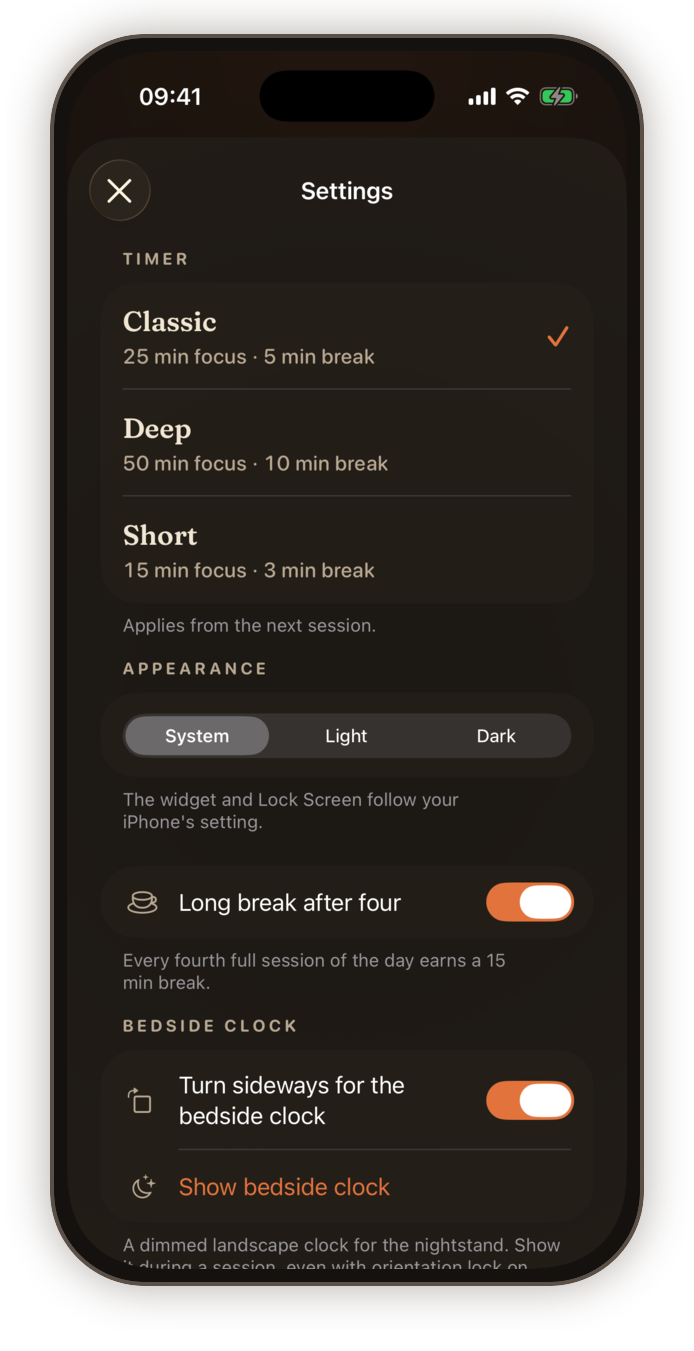
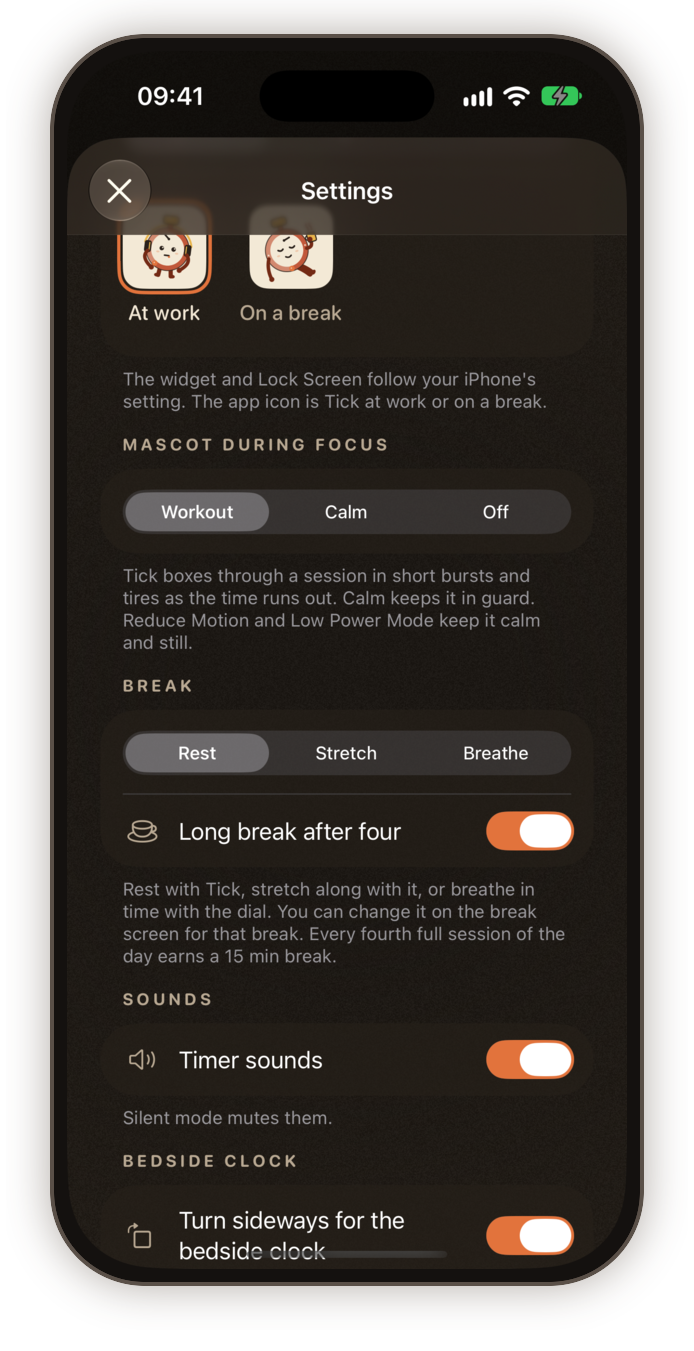
Docs and screenshots (closes #34)

diff --git a/docs/tick.md b/docs/tick.md
@@ -43,6 +43,16 @@ A focus session is a workout (Settings › Mascot during focus: Workout, Calm or
 - **Around the session:** gloves pop on and tap together at the start; a pause drops to guard in 0.3 s and waits with gloves on (still panting and sweating once tired); resume goes straight back; a cancel gets a shrug for 3 s; Finish now and the bell end on the champion, gloves raised; the gloves come off for the break.
 - **Calm and still:** Calm stays in guard with the tiring face and no punches. Reduce Motion and Low Power Mode show calm stills that cross-fade at each face change. The bedside clock is always calm, and so is working on past the bell.
 
+## The break
+
+A break is rest, a stretch or breathing (Settings › Break › During breaks, or the chips on the break screen for one break). Everything lives in `Shared/Mascot/Break` and, like the workout, is worked out from the break's own clock: `TickBreak` holds its length, end and the style with when it began, in the break's time, so a pause doesn't count and a relaunch lands on the same moment.
+
+- **Stretch:** `StretchMove` is a set of slow `KeyframeTimeline`s on the standing Tick (neck roll, shoulder shrug, reach up, side stretch, wrist circles, eye rest), each about 20 seconds with holds, starting and ending on the stance; hands going up high swing their elbows out round the ring. `StretchRoutine` fits them to what's left of the break: as many as fit in 60% of it, chosen eyes first, done in an order that flows, 2 s apart. `BreakLoops` eases Tick up off the ground as the mug goes, plays the routine, then eases it back down to the mug. Each stretch has a still pose for Reduce Motion and Low Power Mode.
+- **Breathe:** `BreathCycle` is 4 s in, 6 s out from when Breathe began. The halo and Tick's breath are one number that the render server animates from turn to turn (`BreathFollower`), so the app itself wakes only at the turns, for the words on the dial and a soft tap. Still, they hold at half.
+- **The dial's words:** `BreakGuide` gives the label ("Breathe in", "Neck roll"), the dots and the VoiceOver value, and the moments they change, so the dial redraws only then.
+- **Break's over:** after a break runs out, `TickDirector` keeps Tick ready (even at night) for the ten minutes "Break's over" shows, and its entrance is a quick reach up and a yawn (`StretchMove.backToWork`), seen only if the change happened on screen.
+- **Live Activity, island, widget, bedside:** unchanged. They can't follow breaths or stretches without push updates (the same limit as the workout), and the bedside clock always rests.
+
 ## Where Tick can move
 
 | Surface | Tick | Not possible |
@@ -83,6 +93,18 @@ The running screen's cost is its countdown; Tick adds nothing measurable there. 
 
 So the workout adds 2–5 points in the simulator.
 
+**Breaks (same simulator, a 5-minute break, 30 s averages after settling):**
+
+| During breaks | App CPU |
+|---|---|
+| Rest (the mug's steam, 15 frames a second throughout) | about 29% |
+| Stretch (frames only while a stretch moves; holds, gaps and eye rest draw nothing) | about 28% |
+| Breathe (the app wakes at each turn; the render server moves the halo and Tick) | about 25% |
+
+So stretching and breathing cost no more than resting.
+
+**Sounds and paper:** the timer's sounds are system sounds (`SystemTimerSounds`): loaded once, no audio session, nothing running between them. The paper grain is a Metal `colorEffect` (`Clockin/Design/PaperGrain.metal`) with no time input, so it's drawn with the page and never on its own; the dial's Bakelite shine is one static stroke on its track. The widget and Live Activity keep plain paper: they're drawn by the system from an archived view, often tinted or clear, where a grain would be flattened or lost.
+
 ## Checking on a phone
 
 1. **Instruments, SwiftUI template:** during a focus session, body updates should come only from the dial's once-a-second step, plus Tick's blinks.
@@ -96,3 +118,12 @@ So the workout adds 2–5 points in the simulator.
 2. **Animation Hitches:** under 1% through a session; the gallery's workout simulator at 10× runs through every phase quickly.
 3. **Time Profiler:** under 2 ms of main-thread work per frame during combos.
 4. **Power Profiler:** a 50-minute session with the screen on, Workout against Off. Aim for under 10% more energy; if it's over, longer rests between rounds come first.
+
+**For breaks** (a 5-minute break in each style, Rest to compare):
+
+1. **SwiftUI:** while breathing, `DialFace` and `TickView` update only at the turns and blinks; while stretching, `TickView` updates at 30 a second or less during a stretch and not at all in holds; `FocusView` doesn't update for either.
+2. **Animation Hitches:** under 1% across each style, including switching chips mid-break.
+3. **Time Profiler:** under 2 ms of main-thread work per frame while stretching, and almost none between breaths.
+4. **Power Profiler:** each style against Rest, screen on. Aim for under 10% more energy than Rest; if the breathing halo keeps the display at a high refresh rate, move it to a 15-frame timeline.
+
+**For the paper:** the SwiftUI template shows no `PaperBackground` updates during a running countdown, Time Profiler shows no shader work once a screen has appeared, and History scrolls with under 1% hitches.
